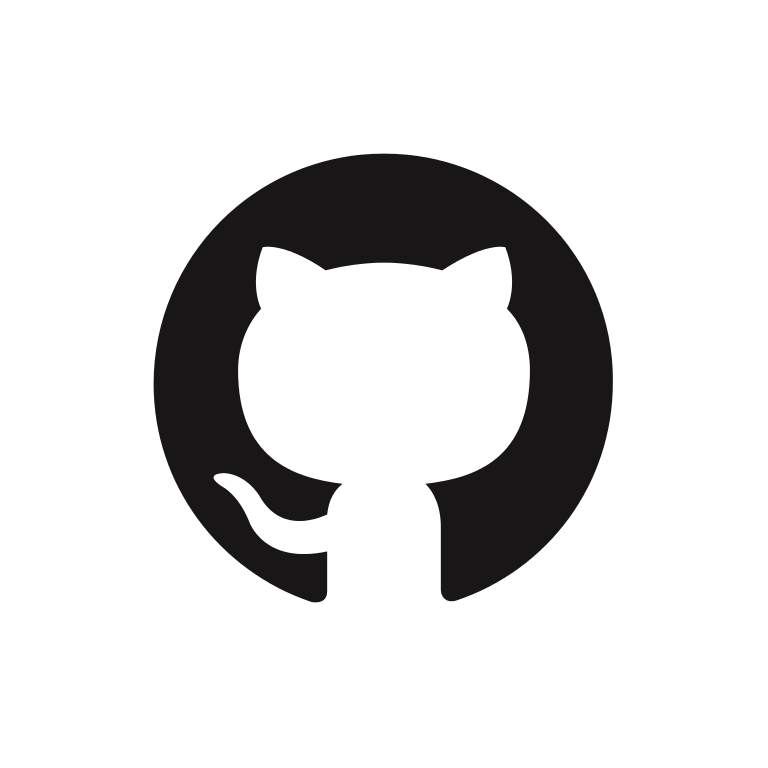
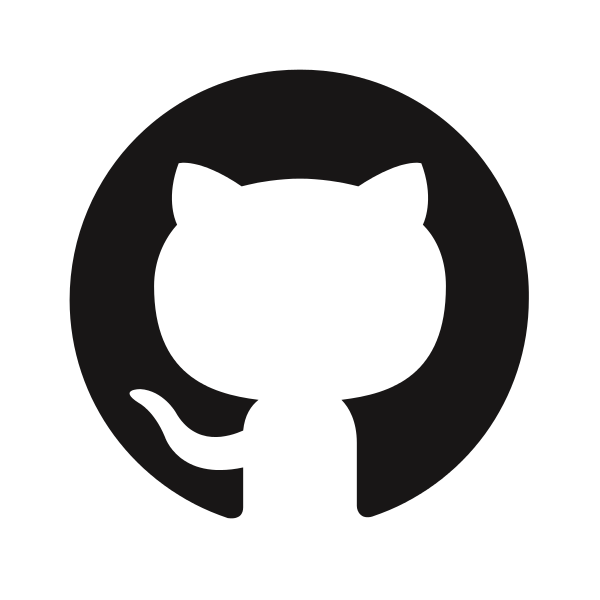
add footer images

Changed region(s): [[0.09, 0.09, 0.9, 0.87]]

diff --git a/src/components/Footer.js b/src/components/Footer.js
@@ -1,15 +1,35 @@
 import React from 'react';
 import github from '../assets/images/github.png';
+import linkedin from '../assets/images/linkedin.png';
+import email from '../assets/images/email.png';
+
 const styles = {
+    footer: {
+        padding: '20px',
+        position: 'fixed',
+        bottom: '0',
+        height: '75px',
+        display: 'flex',
+        justifyContent: 'center'
+    },
     github: {
-        width: '75px'
+        height: '100%'
+    },
+    linkedin: {
+        height: '100%'
+    },
+    email: {
+        height: '95%',
+        marginLeft: '5px'
     }
 }
 
 function Footer() {
     return (
-        <div>
+        <div style={styles.footer}>
             <img src={github} alt="github logo" style={styles.github} />
+            <img src={linkedin} alt="github logo" style={styles.linkedin} />
+            <img src={email} alt="github logo" style={styles.email} />
         </div>
     )
 }
